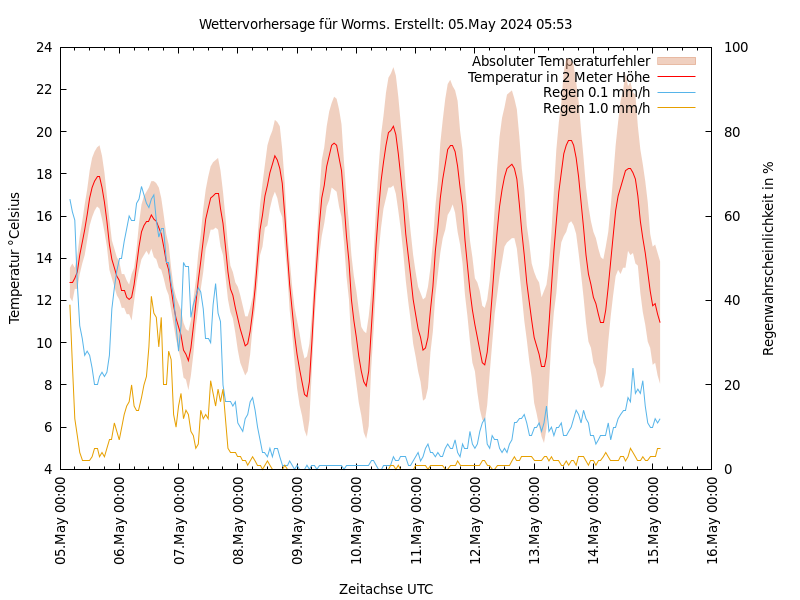
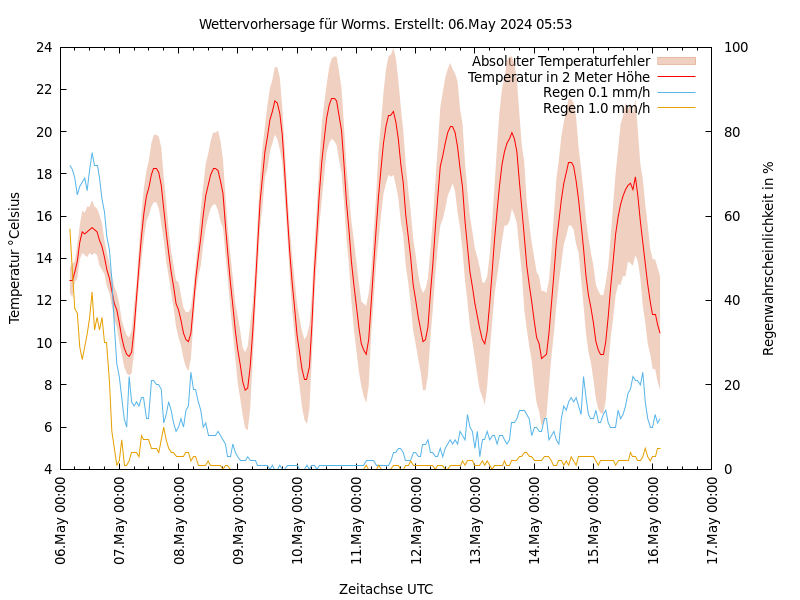
Wettervorhersage aktualisiert

diff --git a/README.md b/README.md
@@ -1,20 +1,3 @@
 # Wettervorhersage
 für Worms erstellt am: heute
 ![Wettervorhersage](wetter2.png)
-Lokale Wettervorhersage mit Opendata DWD /Mosmix. Verwendetet Programme : Bash, Wetterdienst 0.79.0 und Gnuplot
-# Skript ist getestet
-[![Trigger: Push action](https://github.com/dewomser/Wettervorhersage/actions/workflows/main.yml/badge.svg)](https://github.com/dewomser/Wettervorhersage/actions/workflows/main.yml) Shellchecked
-## Vorraussetzung:
-Um die Daten abzurufen verwende ich [Wetterdienst 0.79.0](https://pypi.org/project/wetterdienst/) . 
-Für das Diagramm benutze ich Gnuplot "apt install gnuplot" .
-## Allgemein
-Mögliche Parameter und Einheiten :
-wetterdienst about coverage --provider DWD --network mosmix
-Stationen kann man auswählen :
-https://www.dwd.de/DE/leistungen/met_verfahren_mosmix/mosmix_stationskatalog.cfg
-## wetter(x).sh
-konfiguriert für (x)Tage Vorraussage
-Anfangs und Enddatum kann über die Variablen eingestellt werden . (maximal 10 Tage in die Zukunft)
---station=K2635 durch gewünschte Station ersetzen s.o.
-## wetter1.gp
-set title ersetzen
